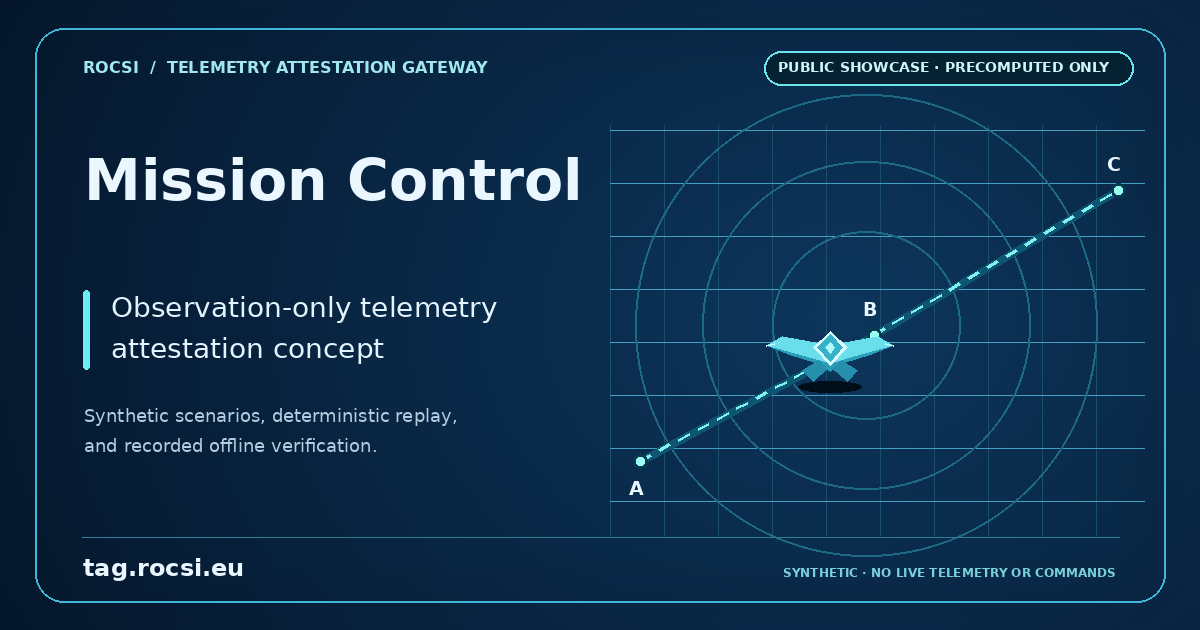
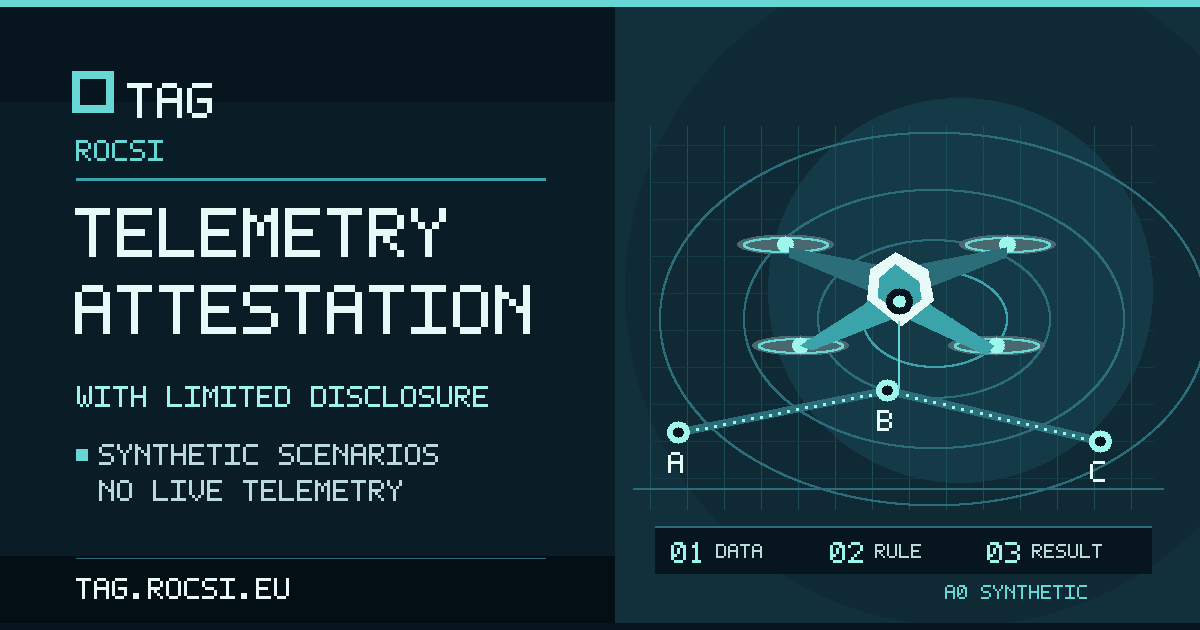
TAG: refresh bilingual social share previews (#166)

diff --git a/showcase/test_public_bundle.py b/showcase/test_public_bundle.py
@@ -742,7 +742,7 @@ class StaticShowcaseTests(unittest.TestCase):
             html = (target / "ro/index.html").read_text(encoding="utf-8")
             self.assertIn('<link rel="canonical" href="https://tag.rocsi.eu/ro/">', html)
             self.assertIn('<link rel="alternate" hreflang="ro" href="https://tag.rocsi.eu/ro/">', html)
-            self.assertIn('<meta property="og:image" content="https://tag.rocsi.eu/og/ro.png">', html)
+            self.assertIn('<meta property="og:image" content="https://tag.rocsi.eu/og/ro.png?v=20261121">', html)
 
     def test_cloudflare_pages_404_is_static_and_has_no_execution_surface(self) -> None:
         # A root 404.html prevents Cloudflare Pages' implicit SPA fallback.
@@ -791,7 +791,7 @@ class StaticShowcaseTests(unittest.TestCase):
                 ("ro", ro, "ro_RO"), ("en", en, "en_US")
             ):
                 from localization import SHARE, ORIGIN
-                image = ORIGIN + "/og/" + language + ".png"
+                image = ORIGIN + "/og/" + language + ".png?v=20261121"
                 self.assertIn(f'<meta property="og:locale" content="{locale}">', page)
                 self.assertIn(f'<meta property="og:image" content="{image}">', page)
                 self.assertIn(f'<meta name="twitter:image" content="{image}">', page)

diff --git a/showcase/localization.py b/showcase/localization.py
@@ -610,7 +610,7 @@ def social_metadata(html: str, language: str) -> str:
         raise ValueError("unsupported social locale")
     meta = SHARE[language]
     url = ORIGIN + ("/ro/" if language == "ro" else "/en/")
-    image_url = ORIGIN + ("/og/ro.png" if language == "ro" else "/og/en.png")
+    image_url = ORIGIN + ("/og/ro.png" if language == "ro" else "/og/en.png") + "?v=20261121"
     oglocale = "ro_RO" if language == "ro" else "en_US"
     altlocale = "en_US" if language == "ro" else "ro_RO"
     def attr(s: str) -> str:

diff --git a/showcase/render_social_assets.py b/showcase/render_social_assets.py
@@ -161,4 +161,4 @@ def draw_icon():
     print("icon files",[(x.name,x.stat().st_size) for x in ROOT.iterdir() if x.is_file()])
 
 if __name__=="__main__":
-    draw_social("ro");draw_social("en");draw_icon()
+    draw_icon()  # Social OG PNGs are owned by social_og_builder.mjs

diff --git a/showcase/README.md b/showcase/README.md
@@ -122,7 +122,7 @@ inspect the generated **15 files** (the existing 14 files plus the local ROCSI m
 - \`404.html\` and \`en/404.html\`: localized inert not-found pages with
   experimental markings and return links, preventing Pages' implicit SPA fallback.
 - \`og/ro.png\`, \`og/en.png\`: pre-rendered 1200×630, same graphic composition
-  (synthetic A–B–C route and illustrative drone), separately translated captions.
+  (synthetic A–B–C route, illustrative quadcopter and data/rule/result stages), separately translated captions.
 - \`favicon.svg\`, \`favicon.ico\`, \`apple-touch-icon.png\`: shared drone/radar
   site identity, without text or claims of live verification.
 - ROCSI symbol asset (assets/rocsi-mark.svg): the unmodified current blue/tricolor
@@ -185,14 +185,15 @@ is needed under any of these options.
   locale/title/description/image, Twitter card and image-alt text, plus
   \`canonical\` and \`hreflang\` alternates. WhatsApp and other crawlers can
   read these without JavaScript. The images use absolute
-  \`https://tag.rocsi.eu/og/{ro,en}.png\` URLs.
+  \`https://tag.rocsi.eu/og/{ro,en}.png?v=20261121\` URLs, versioned to refresh social previews.
 - Type enums (\`VALID\`, \`INVALID\`, \`A0_SYNTHETIC\`, experimental boundary
   markers) remain evidence-backed immutable values. Romanian translates UI
   labels and display statuses, but never changes underlying JSON, policy
   predicates or cryptographic results.
-- The social graphics and drone/radar site icon are **original synthetic art**
-  authored for this project with \`showcase/render_social_assets.py\` (Pillow
-  needed only for optional artist-side re-rendering). Cloudflare's
+- The social graphics are original synthetic vector-style art rendered deterministically
+  with \`node showcase/social_og_builder.mjs\` (Node used only for optional author-side re-rendering).
+  The independent legacy favicon renderer remains \`showcase/render_social_assets.py\`
+  (Pillow needed only when re-authoring icons). Cloudflare's
   \`python3 showcase/build.py --out-dir dist\` has no Pillow or external build
   dependency. No stock, vendor, participant or operational imagery is used.
 - Social platforms may cache previews. A changed picture becomes visible only
